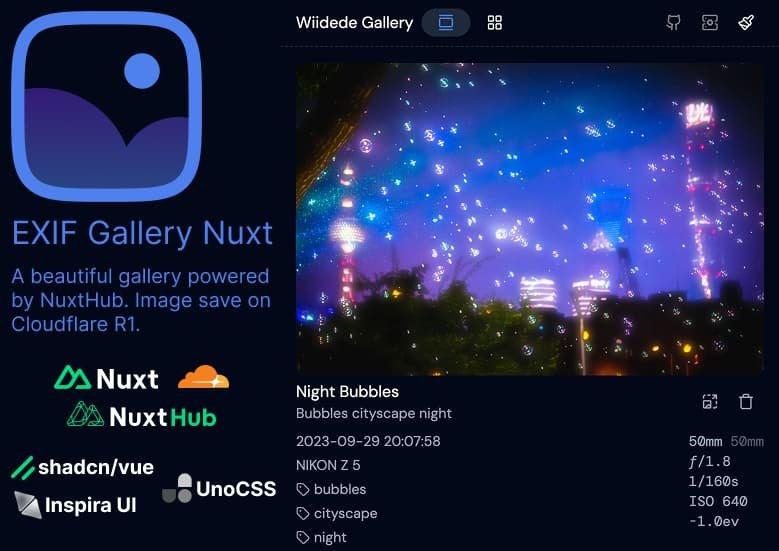
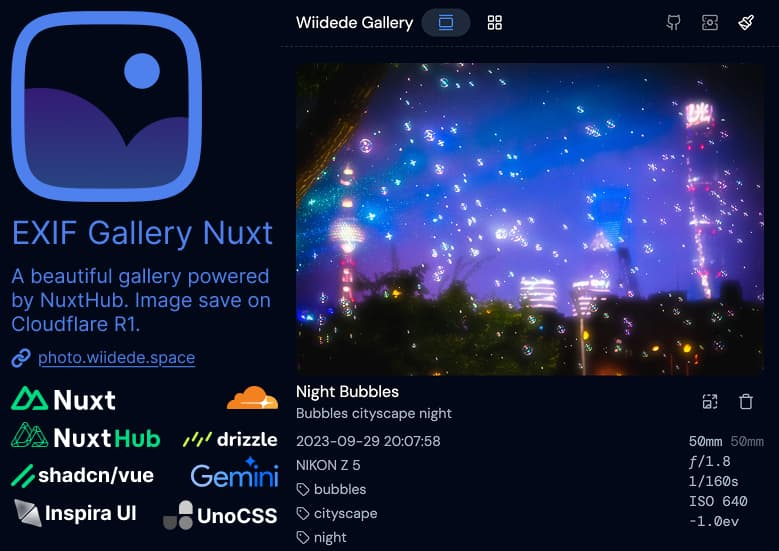
feat: update desc

Changed region(s): [[0.0, 0.6171, 0.3697, 0.9873]]

diff --git a/app/app.vue b/app/app.vue
@@ -12,10 +12,17 @@ onPrehydrate(() => {
   document.body.classList.add(`theme-${value || 'blue'}`)
 })
 
+const config = useRuntimeConfig()
+const { t } = useI18n()
+const title = config.public.title || t('title')
+const description = config.public.description || t('description')
+
 useHead({
+  title,
   meta: [
     { name: 'viewport', content: 'width=device-width, initial-scale=1' },
     { key: 'theme-color', name: 'theme-color', content: themeColor.value },
+    { name: 'description', content: description },
   ],
   link: [
     { rel: 'icon', type: 'image/svg+xml', href: '/favicon.svg' },
@@ -27,10 +34,6 @@ useHead({
     class: 'font-sans',
   },
 })
-const config = useRuntimeConfig()
-const { t } = useI18n()
-const title = config.public.title || t('title')
-const description = config.public.description || t('description')
 
 useSeoMeta({
   title,

diff --git a/README_zh.md b/README_zh.md
@@ -1,45 +1,47 @@
 # EXIF Gallery Nuxt
 
-一个集成了 AI 智能处理、浏览器图片压缩等功能的全栈相册解决方案。
+集成 AI 智能处理、浏览器图片压缩等功能的全栈相册解决方案。
+
+![exif-gallery-nuxt](./public/exif-gallery-nuxt.jpg)
 
 [![部署到 NuxtHub](https://hub.nuxt.com/button.svg)](https://admin.hub.nuxt.com/new)
 
-## 功能特点
+## 功能特性
 
-- 📷 使用 [`hubBlob()`](http://hub.nuxt.com/docs/storage/blob) 实现图片上传和展示
-- 🌐 云存储：由 NuxtHub (cloudflare R2) 提供的 Blob 存储
-- 🤖 AI 集成：支持 OpenAI 和 Google AI 进行智能图像处理
-- 🗜 图片压缩：使用 JSQuash 支持多种格式（JPEG、WebP、AVIF）
-- 🎨 现代化 UI：使用 shadcn-vue 和 inspira-ui 构建精美组件
-- 🏃🏻 [视图过渡 API](https://developer.chrome.com/docs/web-platform/view-transitions)：提供了一种在更新 DOM 内容的同时轻松创建不同 DOM 状态之间动画过渡的机制
-- 🔑 [Nuxt Auth Utils](https://github.com/Atinux/nuxt-auth-utils)：为 Nuxt 提供 Vue 组合式 API 和服务器工具的轻量级认证模块
+- 📷 图片上传与展示，支持 [`hubBlob()`](http://hub.nuxt.com/docs/storage/blob)
+- 🌐 云存储：基于 NuxtHub 的 Blob 存储（Cloudflare R2）
+- 🤖 AI 集成：支持 OpenAI 和 Gemini 智能图像处理
+- 🗜 图片压缩：支持多种格式（JPEG、WebP、AVIF），使用 JSQuash 库
+- 🎨 现代化界面：采用 shadcn-vue 和 inspira-ui 构建的精美组件
+- 🏃🏻 [视图过渡 API](https://developer.chrome.com/docs/web-platform/view-transitions) 提供在不同 DOM 状态间创建动画过渡的机制，同时实现单步 DOM 内容更新
+- 🔑 [Nuxt Auth Utils](https://github.com/Atinux/nuxt-auth-utils) 提供 Vue 组合式 API 和服务端工具的简约身份验证模块
 
 ## 技术栈
 
-- [NuxtHub](https://hub.nuxt.com) - 用于在边缘构建全栈应用的 Nuxt 工具包
-- [UnoCSS](https://unocss.dev/) - 即时按需的原子化 CSS 引擎
-- [shadcn-vue](https://www.shadcn-vue.com/) - 使用 Reka UI 和 Tailwind CSS 构建的精美组件
-- [inspira-ui](https://inspira-ui.com/) - 用于构建炫酷动画界面的精美 UI 组件集合
-- [VueUse](https://github.com/antfu/vueuse) - 实用的 Vue 组合式 API 集合
-- [ESLint](https://eslint.org/) 配合 [@nuxt/eslint-config](https://github.com/nuxt/eslint)，使用单引号，无分号
+- [NuxtHub](https://hub.nuxt.com) - 基于边缘计算构建全栈应用的 Nuxt 工具包
+- [UnoCSS](https://unocss.dev/) - 即时按需原子化 CSS 引擎
+- [shadcn-vue](https://www.shadcn-vue.com/) - 基于 Reka UI 和 Tailwind CSS 构建的精美组件库
+- [inspira-ui](https://inspira-ui.com/) - 用于构建惊艳动画界面的 UI 组件集合
+- [VueUse](https://github.com/antfu/vueuse) - 实用组合式 API 集合
+- [ESLint](https://eslint.org/) 配合 [@nuxt/eslint-config](https://github.com/nuxt/eslint) - 使用单引号且不带分号的代码规范
 - [TypeScript](https://www.typescriptlang.org/)
 
-## 安装设置
+## 安装步骤
 
-1. 将此仓库克隆到本地机器。
-2. 使用命令 `pnpm install` 或你喜欢的包管理器安装依赖。
-3. 使用命令 `pnpm dev` 或你喜欢的包管理器运行应用。
+1. 将本仓库克隆到本地
+2. 使用 `pnpm install` 或其他包管理器安装依赖
+3. 运行 `pnpm dev` 或其他包管理器启动应用
 
-> 如果你没有安装 pnpm，运行：`corepack enable pnpm`
+> 若未安装 pnpm，可运行：`corepack enable pnpm`
 
 ## 环境变量
 
-- `NUXT_ADMIN_PASSWORD` - 访问管理面板和上传图片的密码，如果未提供则默认为 `admin`。
-- `NUXT_SESSION_PASSWORD` - 用于会话加密的密钥，由 [nuxt-auth-utils](https://github.com/Atinux/nuxt-auth-utils) 使用，在开发模式下如果未提供则会自动生成。
-- `NUXT_PUBLIC_TITLE` - 应用的标题，如果未提供则默认为 `Exif Gallery Nuxt`。
-- `NUXT_PUBLIC_DESCRIPTION` - 应用的描述，如果未提供则默认为 `A Nuxt.js image gallery template with Exif data support`。
+- `NUXT_ADMIN_PASSWORD` - 管理后台访问密码，未设置时默认为 `admin`
+- `NUXT_SESSION_PASSWORD` - [nuxt-auth-utils](https://github.com/Atinux/nuxt-auth-utils) 使用的会话加密密钥，开发环境未设置时将自动生成
+- `NUXT_PUBLIC_TITLE` - 应用标题，未设置时默认为 `Exif Gallery Nuxt`
+- `NUXT_PUBLIC_DESCRIPTION` - 应用描述，未设置时默认为 `一个集成了 AI 智能处理、浏览器图片压缩等功能的全栈相册解决方案`
 
-## 开发
+## 开发指南
 
 ```bash
 pnpm dev
@@ -47,33 +49,27 @@ pnpm dev
 
 ### 远程存储
 
-部署项目后，你可以通过以下命令在本地连接到远程数据库：
+部署项目后，可通过以下命令连接远程数据库进行本地开发：
 
 ```bash
 pnpm dev --remote
 ```
 
-### 部署
+### 部署说明
 
-你可以使用 [NuxtHub](https://hub.nuxt.com) 免费且零配置地将此项目部署到你的 Cloudflare 账户。
+使用 [NuxtHub](https://hub.nuxt.com) 可免费部署到 Cloudflare，无需配置：
 
 ```bash
 npx nuxthub deploy
 ```
 
-也可以利用 Cloudflare Pages CI 进行部署，在 <https://hub.nuxt.com/docs/getting-started/deploy> 了解更多部署选项。
+也可通过 Cloudflare Pages CI 部署，更多部署选项请参考：<https://hub.nuxt.com/docs/getting-started/deploy>
 
-了解更多关于远程存储的信息：<https://hub.nuxt.com/docs/getting-started/remote-storage>
+远程存储相关文档：<https://hub.nuxt.com/docs/getting-started/remote-storage>
 
-## 模板启动器
+## 贡献指南
 
-这个项目是 NuxtHub 提供的模板启动器，旨在帮助你快速启动 NuxtHub 文件项目。
-
-查看[部署文档](https://hub.nuxt.com/docs/getting-started/deploy)了解更多信息。
-
-## 贡献
-
-欢迎贡献！如果发现 bug 或有功能请求，请通过 pull request 提交 issue。
+欢迎贡献代码！可通过提交 issue 反馈问题，或通过 pull request 提交新功能。
 
 ## 致谢
 

diff --git a/README.md b/README.md
@@ -12,7 +12,7 @@ A full-stack photo album solution that integrates AI intelligent processing, bro
 
 - 📷 Image upload and display with [`hubBlob()`](http://hub.nuxt.com/docs/storage/blob)
 - 🌐 Cloud Storage: Blob powered by NuxtHub (cloudflare R2)
-- 🤖 AI Integration: Support for OpenAI and Google AI for intelligent image processing
+- 🤖 AI Integration: Support for OpenAI and Gemini for intelligent image processing
 - 🗜 Image Compression: Multiple format support (JPEG, WebP, AVIF) with JSQuash
 - 🎨 Modern UI: Beautiful components with shadcn-vue and inspira-ui
 - 🏃🏻 [View transition API](https://developer.chrome.com/docs/web-platform/view-transitions) The View Transitions API provides a mechanism for easily creating animated transitions between different DOM states while also updating the DOM contents in a single step
@@ -41,7 +41,7 @@ A full-stack photo album solution that integrates AI intelligent processing, bro
 - `NUXT_ADMIN_PASSWORD` - A password to access the admin panel and upload images, will default to `admin` if not provided.
 - `NUXT_SESSION_PASSWORD` - A secret key for session encryption used by [nuxt-auth-utils](https://github.com/Atinux/nuxt-auth-utils), will be generated automatically if not provided in development mode.
 - `NUXT_PUBLIC_TITLE` - The title of the application, will default to `Exif Gallery Nuxt` if not provided.
-- `NUXT_PUBLIC_DESCRIPTION` - The description of the application, will default to `A Nuxt.js image gallery template with Exif data support` if not provided.
+- `NUXT_PUBLIC_DESCRIPTION` - The description of the application, will default to `A full-stack photo album solution that integrates AI intelligent processing, browser image compression, and other functions` if not provided.
 
 ## Development
 
@@ -68,12 +68,6 @@ npx nuxthub deploy
 It's also possible to leverage Cloudflare Pages CI for deploying, learn more about the different options on <https://hub.nuxt.com/docs/getting-started/deploy>
 
 Learn more about remote storage on <https://hub.nuxt.com/docs/getting-started/remote-storage>
-
-## Template Starter
-
-This project is a template starter provided by NuxtHub. It's designed to help kickstart your NuxtHub files project.
-
-Check out the [deployment documentation](https://hub.nuxt.com/docs/getting-started/deploy) for more information.
 
 ## Contribution
 
